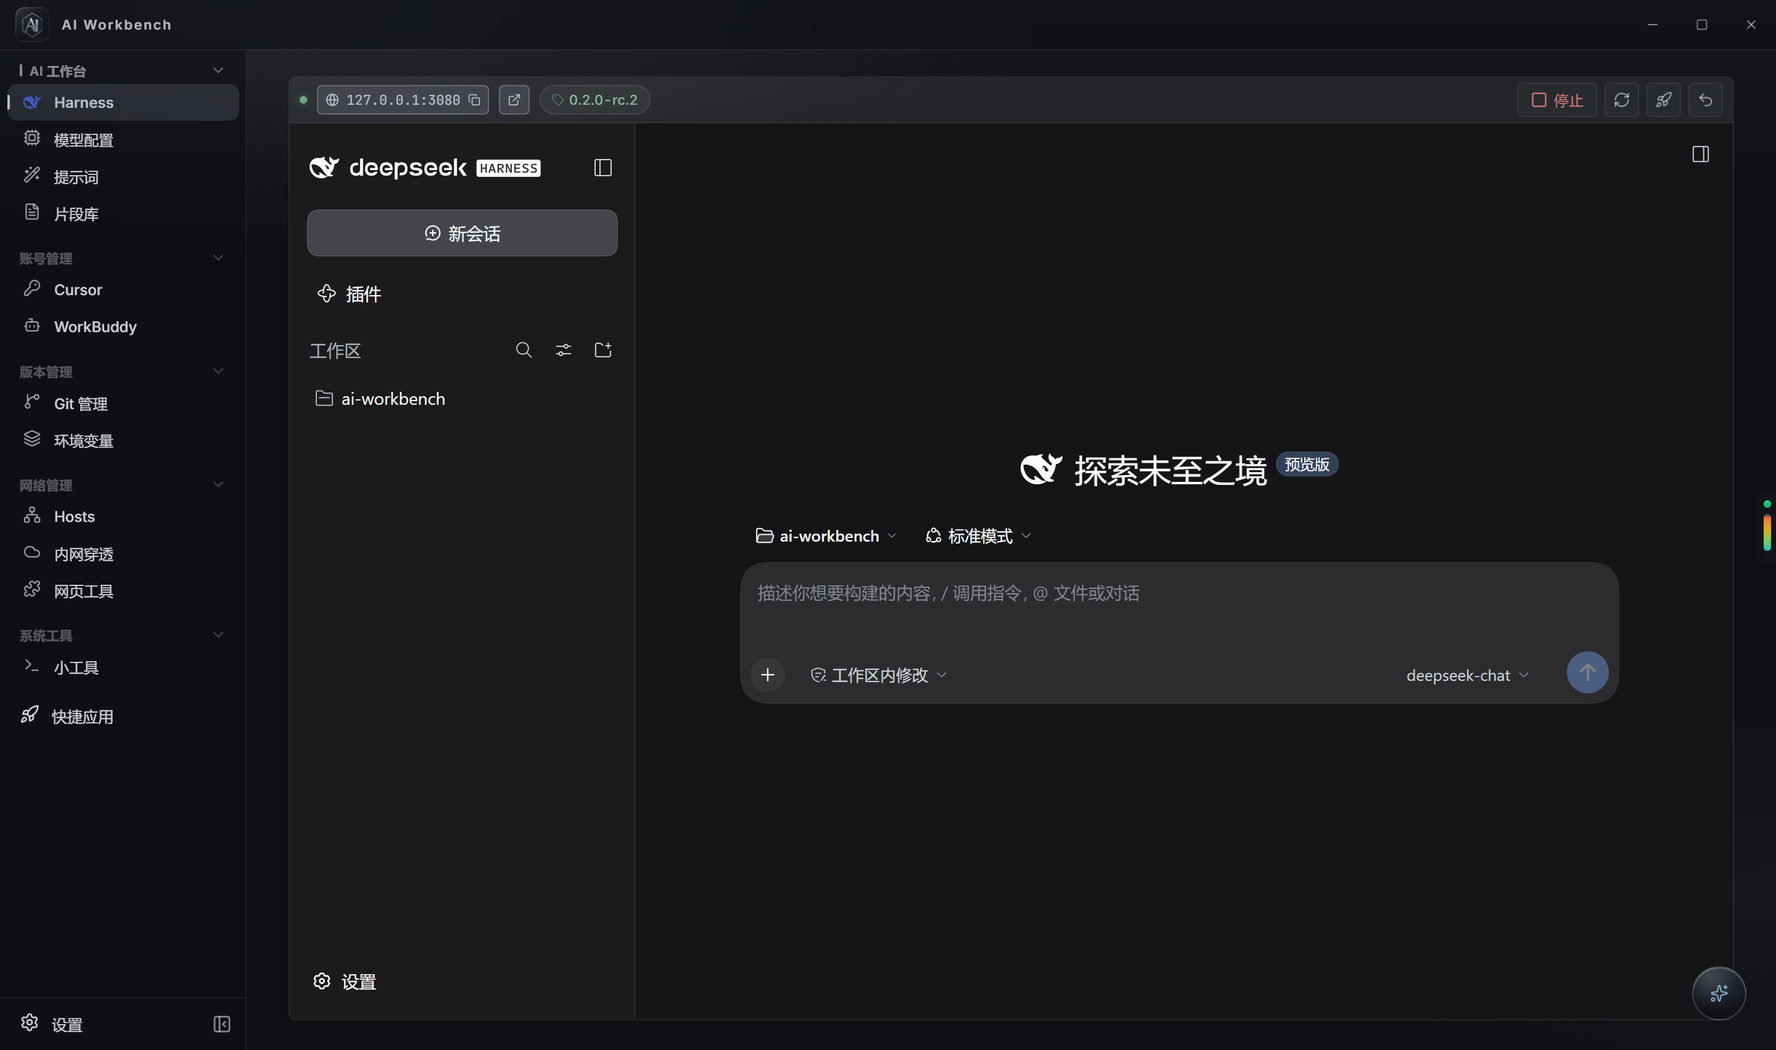
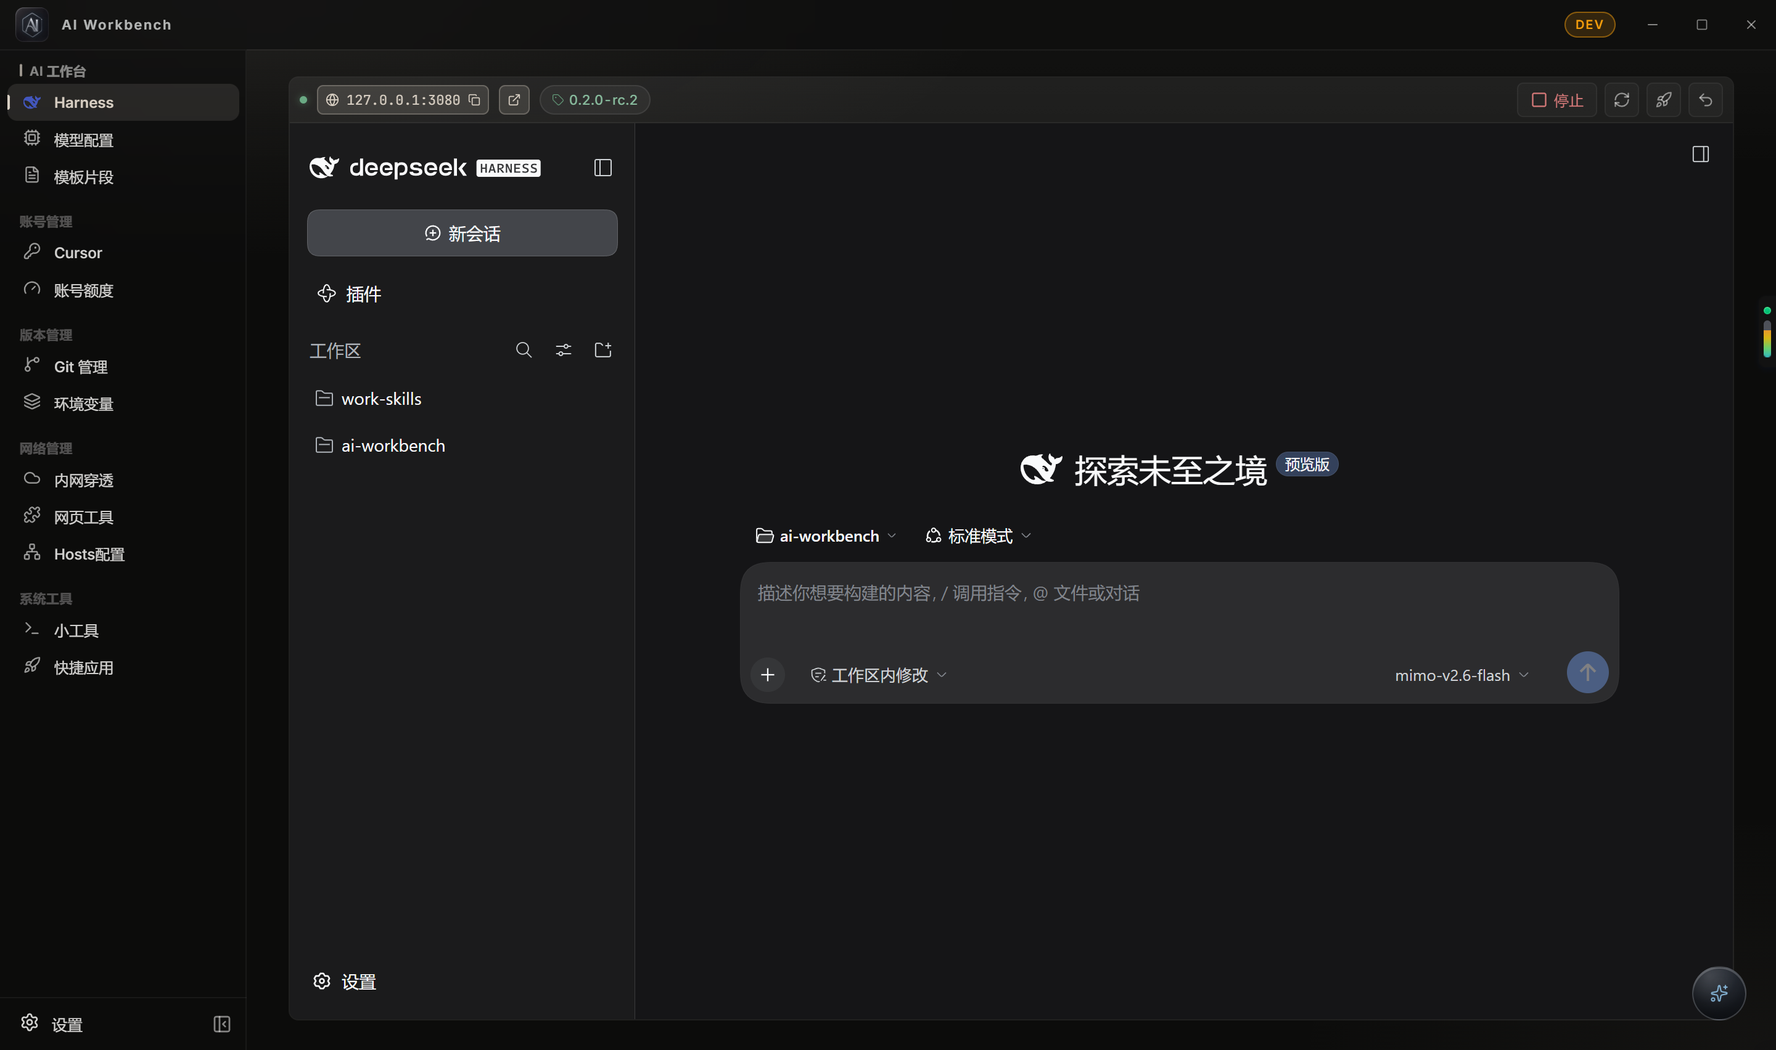
docs: 重构 README 文档结构，更新至 v0.2.16 并同步截图

diff --git a/README.md b/README.md
@@ -1,6 +1,6 @@
 # AI Workbench (AI 工作台)
 
-基于 **Tauri v2 + React + Rust/SQLite** 的 Windows 桌面应用，定位为 **AI 驱动的开发工具箱**。核心是 **DeepSeek 本地服务**，辅以模型配置、Git / Cursor 多身份管理，以及 Hosts、内网穿透、网页工具等能力。
+基于 **Tauri v2 + React + Rust/SQLite** 的 Windows 桌面应用，定位为 **AI 驱动的开发工具箱**。核心是 **DeepSeek 本地服务**，辅以模型配置、模板片段、Git / Cursor 多身份与账号额度，以及内网穿透、网页工具、Hosts 配置等能力。
 
 ## 效果图
 
@@ -23,38 +23,37 @@ npx @tauri-apps/cli icon docs/brand/logo-ice.png -o src-tauri/icons/ice
 
 ### AI 工作台
 
-- **Harness**：启动/停止本地 `@deepseek-ai/dsh`，iframe 内嵌 Web UI；侧栏切走后保活；自定义启动端口；浏览器打开；空态内嵌「安装」按钮；可选进入页面自动启动（记忆开关）；运行中每 8 秒探测进程，外部关闭服务后状态自动回落
-- **快问**：托盘常驻；默认 `Ctrl+Alt+K`；桌面浮漂；流式问答；多轮追问 / 重新生成；可选工作区 / Git / Dirty / 剪贴板上下文
-- **模型配置**：多厂商与 OpenAI 兼容接口；增删改查、连接测试、批量测试/同步/删除、分组视图（按提供商纵向面板，组头失败 / 未测试计数，可一键展开折叠；扁平与分组共用 `auto-fill minmax(min(100%, 340px), 1fr)` 卡片网格）、同步 DSH；批量测试并发 4 路并显示进度，结果落库；按测试状态筛选与排序；随机度 / 最长输出档位化（1K→1M）。页面宽引 `--page-max-width`；工具条含搜索 / 筛选 / 「更多」(导入导出)；提供商品牌图标见 `public/ai-providers/`；窄窗工具条换行、列表独立滚动
-- **模板片段**：本地 CRUD，`{{param}}` 替换后复制或插入快问；JSON 导入导出、克隆；卡片网格 `auto-fill minmax(min(100%, 320px), 1fr)`；类型分段筛选、固定 4 行预览、双击/回车使用
-- **AI 提示词**（独立页面已暂时下线；`PromptOptimizer.tsx` 保留，快问「优化提示词」仍可用）
+- **Harness**：管理本机 DeepSeek 本地服务，内嵌 Web UI
+- **快问**：全局快捷键唤起，流式问答，可附带工作区 / Git / 剪贴板上下文
+- **模型配置**：多厂商与 OpenAI 兼容接口，连接测试与同步到 DSH
+- **模板片段**：本地文本 / 提示词模板，支持 `{{param}}` 参数与导入导出
 
-### 账号与 Git
+### 账号管理
 
-- **Cursor**：多账号一键切换 —— `%APPDATA%\Cursor` 为**单一数据源**，工作区 / 历史 / 扩展 / Agent 数据 / Composer 会话只存一份，账号 profile 只是指向它的 junction 壳；切换账号只替换共享库里的 `cursorAuth/*` 登录键（各账号登录态快照单独保存在 `cursor-backups/<id>/auth.json`），互不覆盖；磁盘占用可视化 + DB 瘦身（VACUUM + 移除旧共享层）；可检测并清理 Cursor 自更新中断留下的陈旧标记（否则每次启动弹「拒绝访问 os error 5」，清理为**移出可还原**而非删除）；可选本机密码备忘，支持诊断导出。Git 身份在「Git 管理」页按仓库 / 域名配置，与 Cursor 账号切换互不影响
-- **WorkBuddy**（独立页面已暂时下线，扫码加号 / 签到 / 自动签到设置 / 积分查询都在「账号额度」页；以下为页面代码仍保留的能力）：腾讯 CodeBuddy 账号池管理控制台。扫码/粘贴纳管多个账号（凭证本机明文入库，界面只显示掩码）、每日自动签到（串行 + 账号间隔 2 秒防风控，连败 5 次自动停用）、签到状态卡（连登 / 周进度 / 账户积分余额）；上游登录页 / 签到 / 积分端点全部走可编辑的协议 JSON（`wb_settings.adapter_json`），改协议不需要重新构建；协议面板顶部的**接口探针**会在登录窗里记录页面自己发出的接口调用（只记方法 / 路径 / 状态码 / 认证头名，不记任何值），点一下即可写入对应端点配置
-- **账号额度**：看板卡片统一展示各账号的剩余额度——一个账号一张卡（身份 / 套餐徽标 / 紧凑倒计时如 `21d10h`），进度条一律按**剩余**填充，余量低时转黄 / 红。WorkBuddy 按积分包拆成「套餐基础积分」「平台奖励积分」两行（走 creditSummary 协议端点，挂风控盾所以进页面不自动查询，全部手动刷新）；所有卡片都来自看板里的「授权登录」，不再读本机其他应用的登录态，每个授权账号一张卡（卡片头的人形 + 可再加一个账号）：Cursor 走 Cursor 官方浏览器登录（`cursor.com/loginDeepControl` + PKCE，后台轮询 `api2.cursor.sh/auth/poll` 取令牌）拉当前账期，主条个人与团队同一口径，与 Cursor 设置页「Included in Pro / Team」的 Total 一致（`totalPercentUsed`，明细是 Cursor 模型 / 其他模型两个池；编辑器底部用量条与「used N%」提示按套餐花费 / 限额算，是 Cursor 自己的另一套口径，放在明细「套餐额度」里）；`spendLimitUsage` 是按量付费预算而非套餐额度，个人（`individualUsed/Limit`）与团队（`pooledUsed/Limit`）开了或花过才单列；团队 / 个人标签按 `membershipType`（enterprise 即团队席位）判断，金额上游是美分，套餐内花费（`includedSpend`）与套餐外赠送用量（`bonusSpend`）分开显示；Grok Bot 是 Cursor 账号体系，用同一套浏览器登录拉用量与下次重置时间；WorkBuddy 的 + 直接弹出扫码登录（与 WorkBuddy 页同一套 `ScanAddFlow`）把账号加入账号池；DeepSeek 没有授权链接，填开放平台 API Key（先查一次 `/user/balance` 验证通过才保存）显示充值 / 赠送余额；接口没有总额，进度条以最近一次充值后见过的最高余额为满（本机 localStorage aq-ds-peak，余额上涨即上调）；Claude Code / Claude Desktop 共用账号池：可从本机 `~/.claude/.credentials.json` 导入 OAuth，或粘贴 access token（先查 `api.anthropic.com/api/oauth/usage` 验证）展示 5 小时 / 每周等用量窗口；ZCode 填智谱 BigModel API Key（先查 `open.bigmodel.cn` 配额验证）展示 Tokens 等限额；小米 MiMo 填开放平台 API Key（sk- 按量余额 / tp- Token Plan 用量，验证通过才保存）；Qoder（国内版 qoder.cn）走 Qoder 客户端同款设备授权（浏览器打开 `qoder.cn/device/selectAccounts` + PKCE，后台轮询 `openapi.qoder.com.cn/api/v1/deviceToken/poll` 取令牌），查 `/sash/api/v2/me/usage` 按 Qoder「我的用量」把套餐内 Credits 与资源包各画一条（资源包有额度时，空的套餐池也画成 0% 条，卡片整体状态按两池之和），另列团队共享包与套餐到期，企业版只给网页链接；令牌约 1 小时过期，临期或被拒时用 `deviceToken/refresh` 自动续期，续期也被拒才提示重新授权；同时查 `/sash/api/v1/me/campaigns` 显示每日积分活动（可领 N Credits + 截止时间 / 已领取，工具条摘要统计可领个数），点「领取」只直调一次 `campaigns/{id}/claim`（不重试；工具条可开每日定点自动领，与 WorkBuddy 签到共用 `daily_schedule` 单 tick），失败——多半是服务端风控要求 Qoder 客户端的设备身份（`RISK_BLOCKED`）——就记失败、不静默开客户端（手动领取仍可启动本机 Qoder CN，找不到再开官网）。Cursor / Grok Bot / DeepSeek / Qoder 的令牌存本机 SQLite 的 `quota_accounts` 表（不进数据导出）；Codex 走链接授权（与 EchoBird 一致）：在右侧点 ChatGPT / Codex 的 +，应用用与 Codex CLI 相同的 OAuth（PKCE）流程打开浏览器登录 ChatGPT，回调本机 `localhost:1455` 后把这套令牌存进本机 SQLite 的 `codex_accounts` 表（不进数据导出），每个授权账号一张卡，展示 5 小时与每周两档限额及各自重置倒计时；令牌临期自动续期，且是应用自己的一套，不影响本机 Codex 的登录。所有令牌都不回显到前端。查询结果按卡片缓存在本机 localStorage q-cache（结果里不含令牌），切页回来立刻有数；进页面时自动重查授权类账号里超过 10 分钟的结果，每张卡独立转圈、底部显示「N 分钟前」，倒计时每分钟走一次。工具条「全部刷新」只并行查授权类账号，WorkBuddy 另有「刷新 WorkBuddy」按钮（串行、只手动）；WorkBuddy 卡片上有签到条（今日已签 / 未签 / 失败 / 已被自动停用，状态只读账号表的上次签到记录、不额外调风控端点），可单卡签到或在工具条「全部签到」逐个签到（间隔 2 秒），签到成功后自动刷新该账号积分，卡片底部提示每日自动签到时间；工具条收成「全部刷新」（有 WB 时点开菜单可选「刷新 WorkBuddy」）、「今日待办」（仅有未签到/可领时出现，顺序执行签到与领积分）、「每日定点」（一个弹层里配置 WB 签到与 Qoder 领积分，settings 仍分表；未配置 checkin 端点时 WB 开关禁用）；旁边的摘要统计账号数 / 余量低 / 需重新授权 / 查询失败，点异常项直接定位到卡片。令牌失效时卡片显示「授权已过期」并就地给出「重新授权」（后端按身份去重，更新的仍是原卡片），DeepSeek Key 被拒时给出「更换 Key」（新 Key 验证通过才替换旧的）。卡片头的垃圾桶是「删除授权」（删本机令牌，需确认）；WorkBuddy 卡与未授权空卡另有「从看板隐藏」（单个 WorkBuddy 账号记在 q-hidden；WorkBuddy 卡的垃圾桶删的是账号池里的该账号）。网络不通时卡片错误条显示「网络不通，请检查网络或代理后重试」（后端 `friendly_http_error`，前端对旧缓存再清洗）。页面右侧是服务商栏，兼做账号管理：「账号及订阅服务商」按服务商列出已连接账号与状态点，点击取消隐藏并定位卡片；「添加账号」目录列出常见 AI 服务商（本机安装图标优先，否则用 `src/assets/providers/` 打包品牌图），外链在浏览器打开官网；整行或 + 永远是**新增一个账号**（Codex / Cursor / Grok Bot 打开浏览器授权，WorkBuddy 弹扫码，DeepSeek / ZCode / MiMo 弹出 Key 表单，Claude 可本机导入或粘贴 token），右侧数字是已连接账号数，眼睛按钮单独控制该服务商是否上看板（aq-cards）；卡片左上角的手柄可拖动调整顺序（aq-card-order）；其余服务商暂不支持额度查询，单独列在「更多服务商」一节（默认折叠），只保留外链；整栏可收起成图标条（aq-rail-collapsed），图标上带账号数与最差状态点
-- **Git 管理**：仓库总览 / 扫描 / 搜索 / 批量身份 / 批量拉推 / 批量移除；提交页多仓变更、diff、提交与推送、AI 生成说明；账号支持按域名绑定（origin 自动匹配），身份匹配顺序：路径精确绑定 > 域名绑定 > 全局 git config。仓库状态由后端 `git_summarize_repos` 一次批量读取（每仓 2 个 git 进程、单进程 4s 超时），仓库页与提交页共享同一份缓存、缓存优先渲染 + 后台静默刷新；批量推送前会列出「落后会被拒绝」和「无上游将首次发布远端分支」的仓库供确认；刷新不会覆盖你取消勾选的文件
-- **Git 报告**：左侧仓库 / 工作区树 + 右侧五视图报告（概览、改动文件、提交、API、AI）；改动基准可选未提交改动 / 相对基准 / 最近 N 个提交 / 指定日期区间（两端含当日）；按 Git diff 静态推导模块 / 层级 / 风险 / 缺测 / 接口变更，选中工作区文件夹可把同夹多仓合并成一份报告；支持文件路径搜索、层级 / 风险筛选、高风险摘要一键定位、仓库模式记忆；AI 可粘贴需求 / 验收标准，据此追加「需求覆盖对照」并把「必测场景」输出为 P0/P1/P2 用例卡片（优先级 / 前置 / 步骤 / 预期），整份报告含需求原文可导出 Markdown；AI 结论生成成功即留存本机历史（按目标 / 基准 / 模型 / 需求快照归档，最多 50 条）可回看与复制。报告本体不落库、不执行测试
+- **Cursor**：多账号一键切换，工作区与扩展数据共享、登录态互不覆盖
+- **账号额度**：Cursor / WorkBuddy / DeepSeek / Claude / Qoder / MiMo 等额度看板；支持签到、领积分与每日定点
 
-### 开发环境
+### 版本管理
 
-- **版本切换**：本机开发运行时相关能力；运行时卡片列表列数随窗口自适应（`auto-fill minmax(min(100%, 340px), 1fr)`）
+- **Git 管理**：多仓库扫描、身份绑定、批量拉推；提交页查看 diff 与 AI 生成说明
+- **Git 报告**：按 diff 静态分析改动与风险，可选 AI 补充覆盖与必测场景
+- **环境变量**：本机开发运行时相关配置
+
+### 网络管理
+
+- **内网穿透**：基于 cloudflared 的临时 / 命名隧道（[文档](docs/cloudflared.md)）
+- **网页工具**：常用站点书签与油猴式用户脚本，独立弹窗打开
+- **Hosts配置**：读写系统 hosts，多套配置切换与备份恢复（需管理员）
 
 ### 系统工具
 
-- **小工具**：8 个开发常用工具，按「转换 / 生成 / 解析」分组——JSON（格式化 / 压缩 / 修复 / JSONPath / 历史）、编解码（Base64 / Base64URL / URL）、时间戳（秒 / 毫秒 / 微秒互转 + 实时时钟）、Cron（解析 + 自然语言 + 下次执行 + 模板）、UUID（批量生成 + 校验）、Hash（SHA-1/256/384/512 + 对比）、JWT（解码 + 过期状态）、正则（实时匹配 + 分组 + 替换）。顶部工具条一行平铺全部工具（分组以分隔线区分，悬停显示分组与说明），右侧搜索过滤（当前工具说明跟在后面，≤1200px 视口隐藏），不再有第二条"当前工具"横条；窄窗口时工具条横向滚动并自动把当前工具滚入视野；`1-8` 数字键快速切换；工具页共用同一套尺寸策略（宽度只在 `.devtools-tool` 定一次：随窗口流式、超宽屏封顶 1440px；输入/输出区按 flex 长高填满窗口，时间戳的单行 input 保持自然高），textarea 不再手动拖拽改高）；这页**不保活**——切走即卸载，只用 localStorage（`workbench-devtools-tool`）记住当前停在哪个工具，工具内的输入会丢。**HTTP 客户端已移除**（原「网络」分组、`devtools_http_request` 命令与 `http_saved_requests` / `http_history` 两张表一并删掉，旧库里的表在启动时被 `DROP TABLE`）
-- **Hosts配置**：读写系统 hosts，手动/自动备份与恢复，另存为配置（需管理员）；系统编辑器高度随窗口变化（`clamp(300px, 45vh, 560px)`，不再钉死 300px）
-- **内网穿透**：cloudflared 临时/命名隧道；日志过滤/导出；公网 URL 浏览器打开；详见 [docs/cloudflared.md](docs/cloudflared.md)
-- **快捷应用**：保存常用应用路径（名称 / exe / 启动参数 / 分组 / 版本），一键启动与关闭。「添加应用」直接打开扫描弹窗（注册表 + 安装目录 + 开始菜单/桌面快捷方式，直接解析 .lnk 二进制，覆盖其他盘符与深层布局，并对 Codex / Claude Code 等无注册表、无快捷方式的 per-user CLI 工具走一份可扩充的精选清单，自动识别主程序、读取程序版本、带真实图标）批量导入，弹窗底部「手动添加…」唤起表单；运行时状态检测（tasklist 批量查询 + 可选 5 秒自动刷新）、单个/批量关闭（先礼后兵：正常退出超时再强杀）；拖拽排序 + 排序方式（自定义 / 名称 / 分组 / 运行中优先）、自定义分组（分组管理器新建/重命名/删除，重命名与删除会同步到应用；分组列表存 localStorage `al-groups`，归属仍在应用的 `group` 字段入库；筛选下拉展示空分组，表单可选/建分组，多选可批量设置分组）、搜索、多选批量启动/删除；应用版本自动读取（Win32 文件版本资源，卡片上直接展示，可手动覆盖）；JSON 导入导出（按路径去重）；原生文件选择器浏览 exe。卡片网格随窗口宽度自适应列数（`minmax(min(100%, 260px), 1fr)`），首屏空态随窗口高度垂直居中；工具条吸顶固定（`.al-toolbar` sticky + 宿主 `.al-page-host` 去掉上内边距），只有下方卡片区域滚动；磨砂主题下这条吸顶条与侧栏同配方（`--chrome-bg` + blur 20px），卡片从它下面滚过时透出模糊。**同一页还有第二个视图「端口查杀」**（工具条左侧 `.al-view-tabs` 切换，选择记在 localStorage `al-view`）：输入一个或多个端口（支持 `3000, 5432` 与 `8080-8090` 范围粘贴，一次最多 64 个）后列出谁在监听——PID / 进程名 / 完整 exe 路径 / IPv4+IPv6 地址（双栈同一进程合并成一张卡）——确认后 `taskkill /T /F` 连进程树一起结束，并回读 netstat 验证端口确实释放；PID ≤ 4 与 csrss / lsass / svchost 等关键进程前端不给按钮、后端同样直接拒绝，且只杀"点击时仍在监听该端口"的 PID（PID 会被系统回收，不做盲杀）
-- **网页工具**：两个页签。**网页**——把常用站点存成书签（名称 / URL / 分组 / 标签 / 全局快捷键），地址栏可直接打开任意网址，支持分组折叠与筛选、按名称-域名-URL-标签搜索、手动拖拽排序（跨分组拖拽即改分组）与"最近使用"排序、列表 / 卡片双视图、打开次数与最近打开时间统计、JSON 导入导出（按 URL 去重）、空白时的预设一键添加；书签的**全局快捷键注册在应用层**，切到别的页面甚至最小化后依然生效，冲突或注册失败会提示。**脚本**——油猴式用户脚本（名称 / 描述 / `@match` 规则 / 代码，支持 `<all_urls>` 与 `*://example.com/*` 通配），可启用/禁用、搜索、按名称-时间-状态排序、全部启停、代码折叠预览、单条复制或导出 JSON、内置四个模板（标题显示 URL / 强制深色 / 去广告 / 字数统计），并能在编辑时输入 URL 实时预览是否命中；**从网址导入**走 Rust 侧请求（自动把 GreasyFork 页地址转成 `.user.js`、GitHub blob 转 raw），因此不受网页 `fetch` 的 CORS 限制，且会解析脚本自带的 `@name` / `@description` / `@match`。两类入口都用 Rust 创建的**独立弹窗浏览器**打开：内置浮动导航工具栏（前进 / 后退 / 刷新 / 复制地址 / 缩放 / 折叠 / 交给系统浏览器），工具栏靠 initialization script 所以在页面内部跳转后依然存在，同一地址重复点击只聚焦不重开，窗口标题栏继承当前主题；用户脚本按 `@match` 在**每次导航**时复查后再注入，不会跟着跳到别的站点继续生效。主界面书签图标取自站点自身的 `/favicon.ico`，失败时回落到按域名生成的首字母渐变图标
+- **小工具**：JSON、编解码、时间戳、Cron、UUID、Hash、JWT、正则
+- **快捷应用**：常用应用一键启动 / 关闭，附带端口查杀
 
 ### 设置
 
-- 主题：冰蓝 / 冷银 / 香槟金 / 浅色 / 深色 / 跟随系统
-- 中英语言、侧栏折叠、开机自启、快问快捷键
-- 启动时自动检测新版本（GitHub 为主，jsDelivr 的 GitHub tag 索引兜底；无 Gitee），均不可达则静默；右下角非阻塞提示条；点「查看更新」打开升级弹窗：**先显示这个版本的更新说明（release 正文）**，再决定升不升；弹窗内可「立即升级」（应用内下载安装包 → 显示进度可取消 → 自动关闭应用并静默装新版）、「跳过此版本」或「在浏览器中打开」；GitHub 匿名 API 配额打满时版本探测会跟发布页 302、安装包改走**不占配额的资产直链**；设置页同样可检查、升级，并可清除已跳过的版本
-- 数据导出 / 导入（JSON；含明文密钥警告）
+- 多主题、中英语言、开机自启、快问快捷键
+- 应用内检查更新与升级；数据导出 / 导入（含明文密钥警告）
 
 ## 侧边栏导航
 
@@ -139,7 +138,7 @@ Start-Process .\src-tauri\target\debug\ai_workbench.exe
 | `src-tauri/tauri.conf.json` | `"version"` |
 | `src-tauri/Cargo.toml` | `version`（`src-tauri/Cargo.lock` 未被 git 跟踪，构建时自动更新） |
 
-当前版本：`0.2.8`（设置页通过 Tauri `getVersion()` 读取）。发布前务必核对上表四处一致——`src-tauri/Cargo.toml` 最容易漏（它决定 exe 文件属性里的版本号）。
+当前版本：`0.2.16`（设置页通过 Tauri `getVersion()` 读取）。发布前务必核对上表四处一致——`src-tauri/Cargo.toml` 最容易漏（它决定 exe 文件属性里的版本号）。
 
 ### 构建
 
